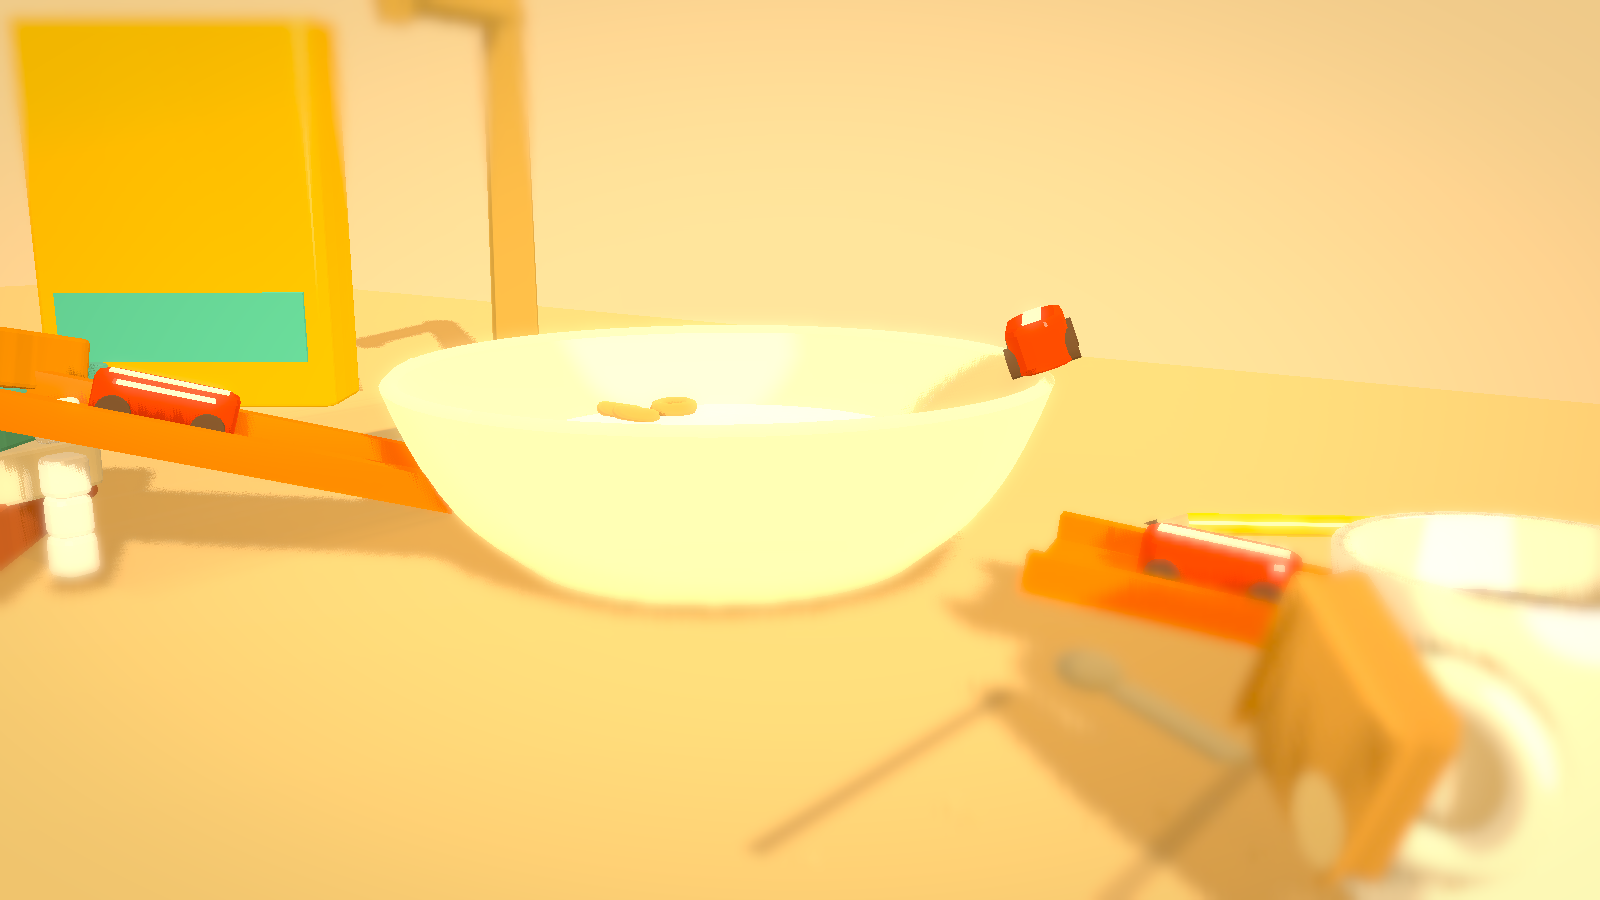
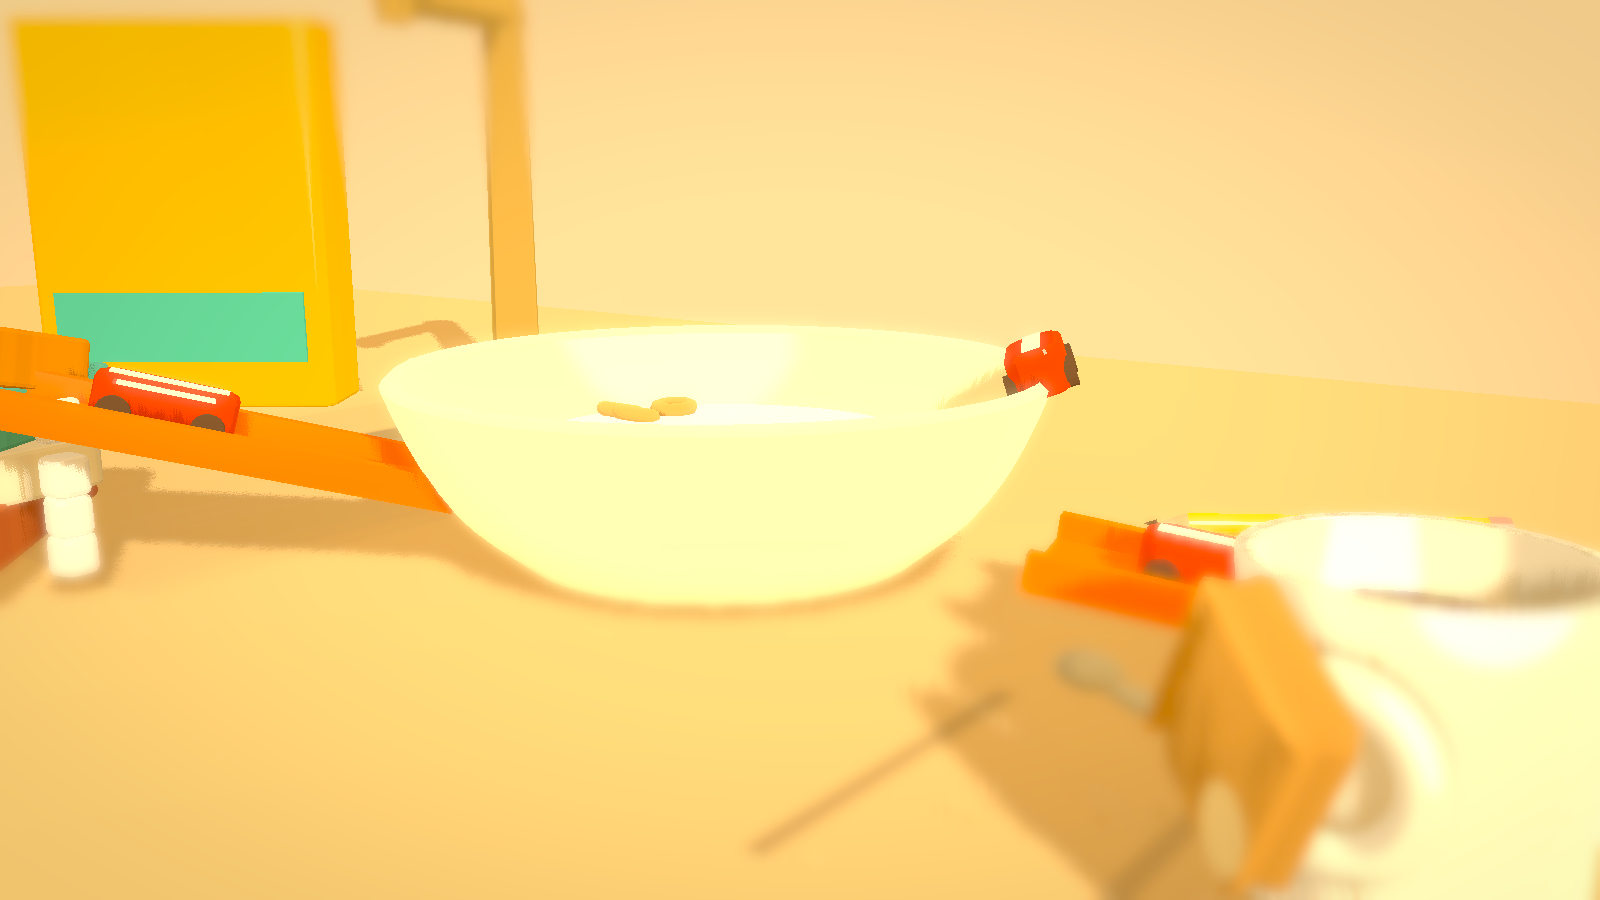
stage 3: environment artist - canonical kitchen-set renders (post=on, three cameras) + session log with rubric self-scores and budget table

diff --git a/docs/vault/Sessions/2026-10-07 Stage 3 - kitchen set.md b/docs/vault/Sessions/2026-10-07 Stage 3 - kitchen set.md
@@ -1,0 +1,56 @@
+---
+livedocs: snapshot
+tags: [session, stage-3, environment-artist]
+---
+# 2026-10-07 Stage 3 — the production kitchen set
+
+> [!abstract] Role
+> Session snapshot for the Environment Artist's stage-3 wave: tile B made permanent inside the material system, with the tile-A keeps installed, the socket/hazard data the levels will consume, canonical renders at post ON, and the set's slice of the frame budget.
+
+## What shipped
+
+- **src/sets/kitchen/** — the set as data + generators. `src/sets/kitchen/data.ts` is the pure-numbers half (no three import): `SET_SCALE`, `COUNTER` + `insideCounter`, `BOWL` / `BOWL_ARC` / `BOWL_SOCKET_FRAMES`, `TAP` with its world `drip` anchor, `HAZARDS.tapSplash`, the decorative `STAGING` runs. `buildKitchenSet(THREE, opts)` in `src/sets/kitchen/index.ts` returns `{ group, sockets, hazardZones, counter, staging }` — pure (two calls, byte-identical geometry).
+- **src/dev/scenes/kitchen-set.ts** — registers `kitchen-set`: the set under the lighting rig with the reference's three parked stand-in cars and two decorative runs; `SceneEntry.focus` is the rim car (the `focus=car` URL value parses to null and falls back here — deliberately, that is the car-following band of §7.3).
+- **Canonical renders** (post ON, quality high, 1600×900, fixed clock): `docs/explorations/kitchen-set/establishing.png`, `hero.png`, `floor.png`.
+- **tests/unit/kitchen-set.test.ts** — purity hash, socket/hazard finiteness + counter bounds, the rim-arc convention checked against the L03 bank constants and the kit's tangent frame (including "the mesh passes through both socket poses" via the real transform graph), the L04 hazard-shape/numbers cross-check, and the budget caps. Full suite 194/194, e2e 12/12 at the final commit.
+
+## Prop inventory → material class
+
+Counter floor + splashback painted wood (`grainScale` 0.05, the TA's big-surface frequency) · cereal bowl ceramic (DoubleSide, warm shade band — the tile-B lathe profile) · milk liquid / cereal rings fabric (instanced) · book stack + ramp book painted wood (cream cover = paper read at low grain) · pencils ×2 die-cast shaft / wood tip / fabric lead / ceramic eraser · tap die-cast, frozen drip liquid · wet patch + hazard-radius spread + splash crown + mug ring FILM (`stainDecal`, never cutout geometry) · mug ceramic + coffee liquid · bitten toast painted wood ×2 · crumb trail painted wood instanced ×16 (seeded LCG) · sugar-cube supports (tile-A keep) instanced ×5 — four pressing under the ramp run, one fallen by the toast · cereal-box cliff (tile-A keep) painted wood + ceramic mint band, up-left rear where it catches the tap's long shadow · folded cloth fabric (mint) · **teaspoon** (my added lived-in detail, rubric line 7) die-cast, laid beside the mug ring pointing at the toast.
+
+## Rubric self-scores (honest; the AD re-scores)
+
+| line | establishing | hero | floor |
+|---|---:|---:|---:|
+| 1 silhouette | 2 | 2 | 2 |
+| 2 focal point | 2 | 2 | 2 |
+| 3 scale cues | 2 | 2 | 2 |
+| 4 color | 2 | 2 | 2 |
+| 5 light | 2 | 2 | 2 |
+| 6 material | 2 | 2 | **1** |
+| 7 story | 2 | 2 | **1** |
+| 8 nothing default | 2 | 2 | 2 |
+| **total** | **16** | **16** | **13** |
+
+Honesty notes: the floor shot's bowl outer is blown white (the TA's own standing flag — the value range matches the reference's floor frame, but matching a weakness is still a weakness; a scene-side bowl-band trim is a one-line change if the AD calls it); floor story is thin by construction — it frames the bowl, not the debris. The establishing's cereal-box cliff is the largest saturated mass after the bowl — if it reads as fighting, it moves back-left, not down.
+
+## Budget (this set vs the TA's tile-B-integrated table)
+
+Set alone: **39 draw calls, ~16.7k triangles**, 3 instanced meshes (cubes, crumbs, rings); staged for the canonical renders (3 stand-in cars + 2 runs): **~59 draws**. Statics are grouped per prop, not cross-prop merged — props keep their own transforms so the socket wiring never unmerges a mesh; at <60 draws a merge would buy nothing measurable and cost the sockets story.
+
+`perf=24` probe on this scene, establishing, Apple M5 Pro headless Chromium — **SwiftShader (software GL), same caveats as the TA table, single-digit confidence ±20 %** (parallel agents were on the box): 1600×900 post high **block median 48.2 ms** (reference scene: 51.7); 960×540 post high **23.8 ms** (reference: 25.0), post medium 23.4, rAF pinned 33.3 at high. The set is inside ±10 % of the tile-B-integrated frame cost at every tier — within the TA's existing budget envelope; no drop ordered. The post-off 53.1 ms row is measurement noise from a contended machine (it exceeds its own post-on row); the post-on rows and the 960×540 rows are the ones to trust.
+
+## Decisions
+
+- **[environment artist] The bowl grew 18 % to obey the socket convention.** `Concepts/Levels` says the artist's mesh is built TO the rim numbers (radius 0.12, 120°, flat sockets at the kit's tangent frame); the reference bowl's rim centreline was 0.101. The lathe profile (exact tile-B curve) is scaled so the rim crown's mid-wall circle lands on 0.12 exactly — profile shape unchanged, silhouette slightly wider. Alternatives: fake sockets off a smaller bowl (mesh wouldn't pass through the poses — the convention's whole point) or scaling only the rim (breaks the profile). The rim arc runs bowl.in(45°) → bowl.out(−75°) with travel (sin a, 0, −cos a), reproducing the level-derived L03 poses' tangent convention sign-for-sign; the hero's rim car faces the reference's direction (parked, not committed).
+- **[environment artist] The wet-patch film now has three layers.** The dense 0.045 core is the reference's patch untouched; a wide low-alpha film reaches the full 0.14 hazard radius so the DATA and the pixels agree on how big the splash is; the splash crown stays the drip's frozen tell. Alternative rejected: shrinking the hazard radius to the visible puddle (the L04 number is the level designer's, not mine).
+- **[environment artist] Sockets/hazards are exported in the level's own shapes** (`Socket`-shaped frames, the `WetPatch` record) so wiring is an import, not an adapter; the tap position and the hazard centre are derived from one constant (`TAP.drip`), so they cannot drift.
+- **[environment artist] Decorative runs + cars stayed out of the set** (they live in the dev scene): the built track is the kit, the cars are the car system's. The set exports only the run midpoints the sugar cubes lean on.
+- **[environment artist] Mug pulled 1.5 cm into frame** (0.24→0.225 x, 0.05→0.062 z) with the toast soldier following it: the production hero camera frames a wider bowl than the tile's, and the reference's "soldier leaning on the mug" read as a floating slab when the mug slid off-frame. The ring film stayed where the reference put it.
+
+## Carry-ins / for the Art Director and the Systems Engineer
+
+- The set is the first code under `src/sets/` — `Modules/sets-kitchen.md` is new; `Modules/src.md` / `Modules/dev.md` roster lines updated with it.
+- **Wiring asks (Systems Engineer, as briefed):** the kitchen levels consume `sockets` + `hazardZones` from `buildKitchenSet`; L03's bowl sits wherever the set puts the bowl, so a future bank piece seats by importing `sockets['bowl.in']`/`['bowl.out']` instead of re-deriving from the fixture chain; L04's tap hazard is `hazardZones.tapSplash` (same shape and numbers as its authored entry). The level chains currently start at the world origin and the set is a canonical layout — prop placement per level is the SE's call; the data is position-complete for it.
+- **Book-stack height note:** the levels' start `ramp` fixtures drop 0.22–0.30 m; the visible book stack decks ~0.08 m. If the SE wants the prop to carry the fixture height, stack count is a data edit (`bookStack` covers array) — flagging, not blocking.
+- **Process note:** commit `6a1cf52` (a director's conflict-marker dedupe run with `git add -A`) swept this set's work-in-progress files into `main` mid-round, including a pre-fix rim-car render. Everything was re-rendered and re-committed by this session on top; no half-state survives, but the director may want to avoid `add -A` while other roles are live in the same worktree.
